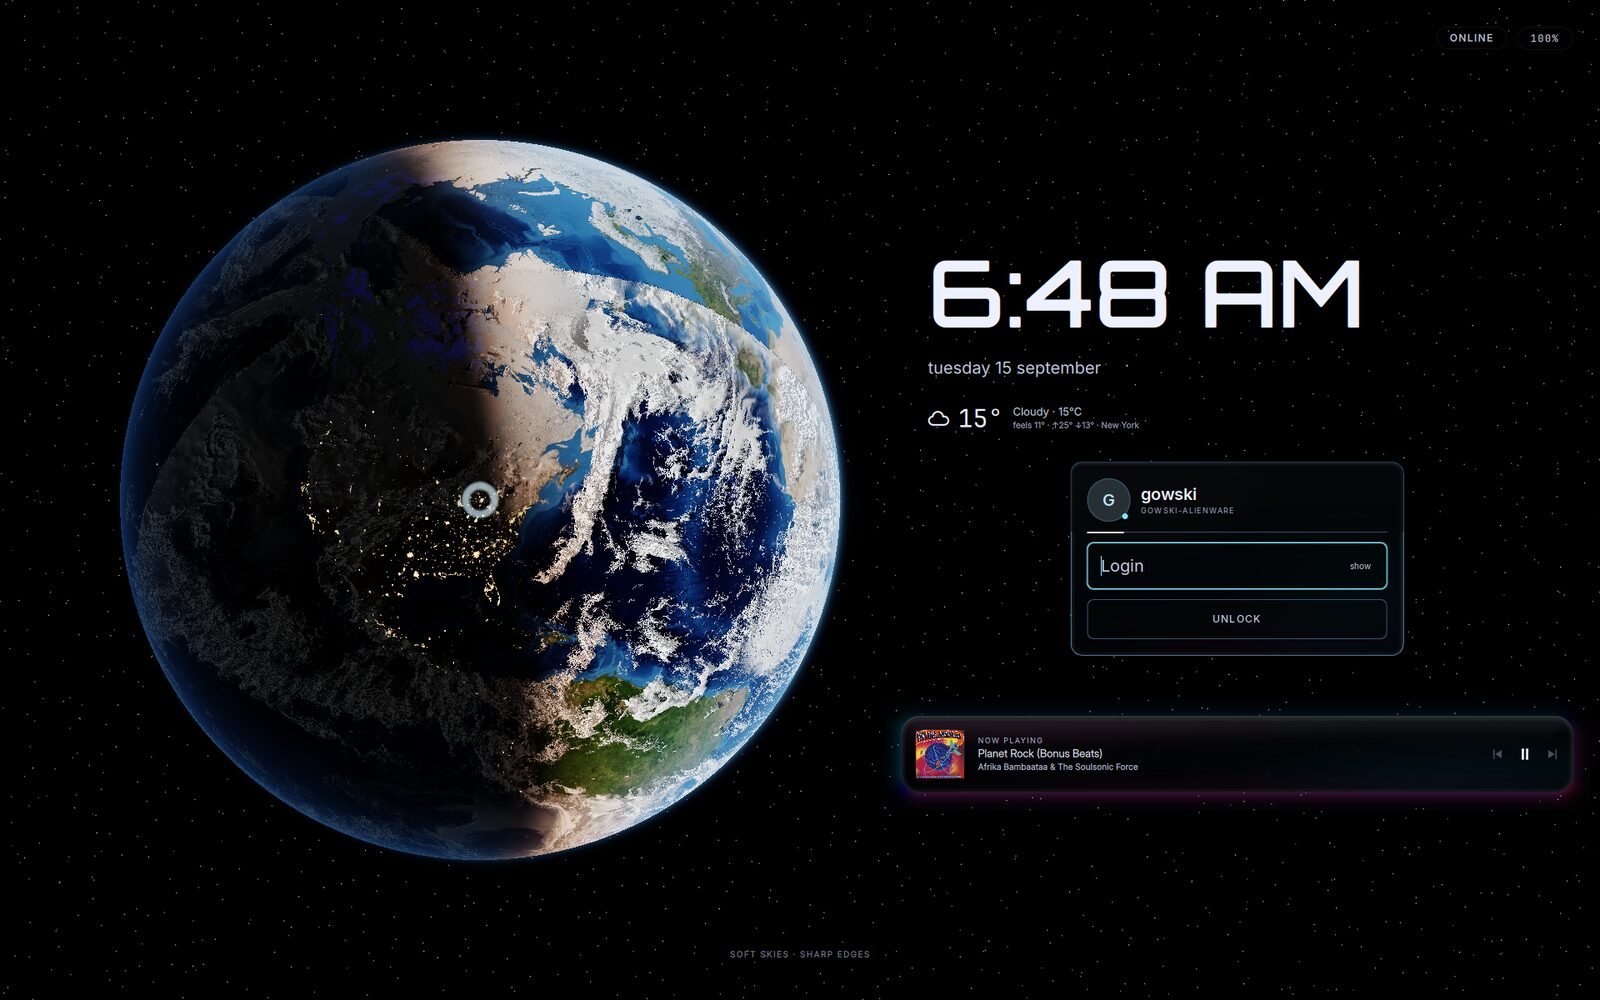
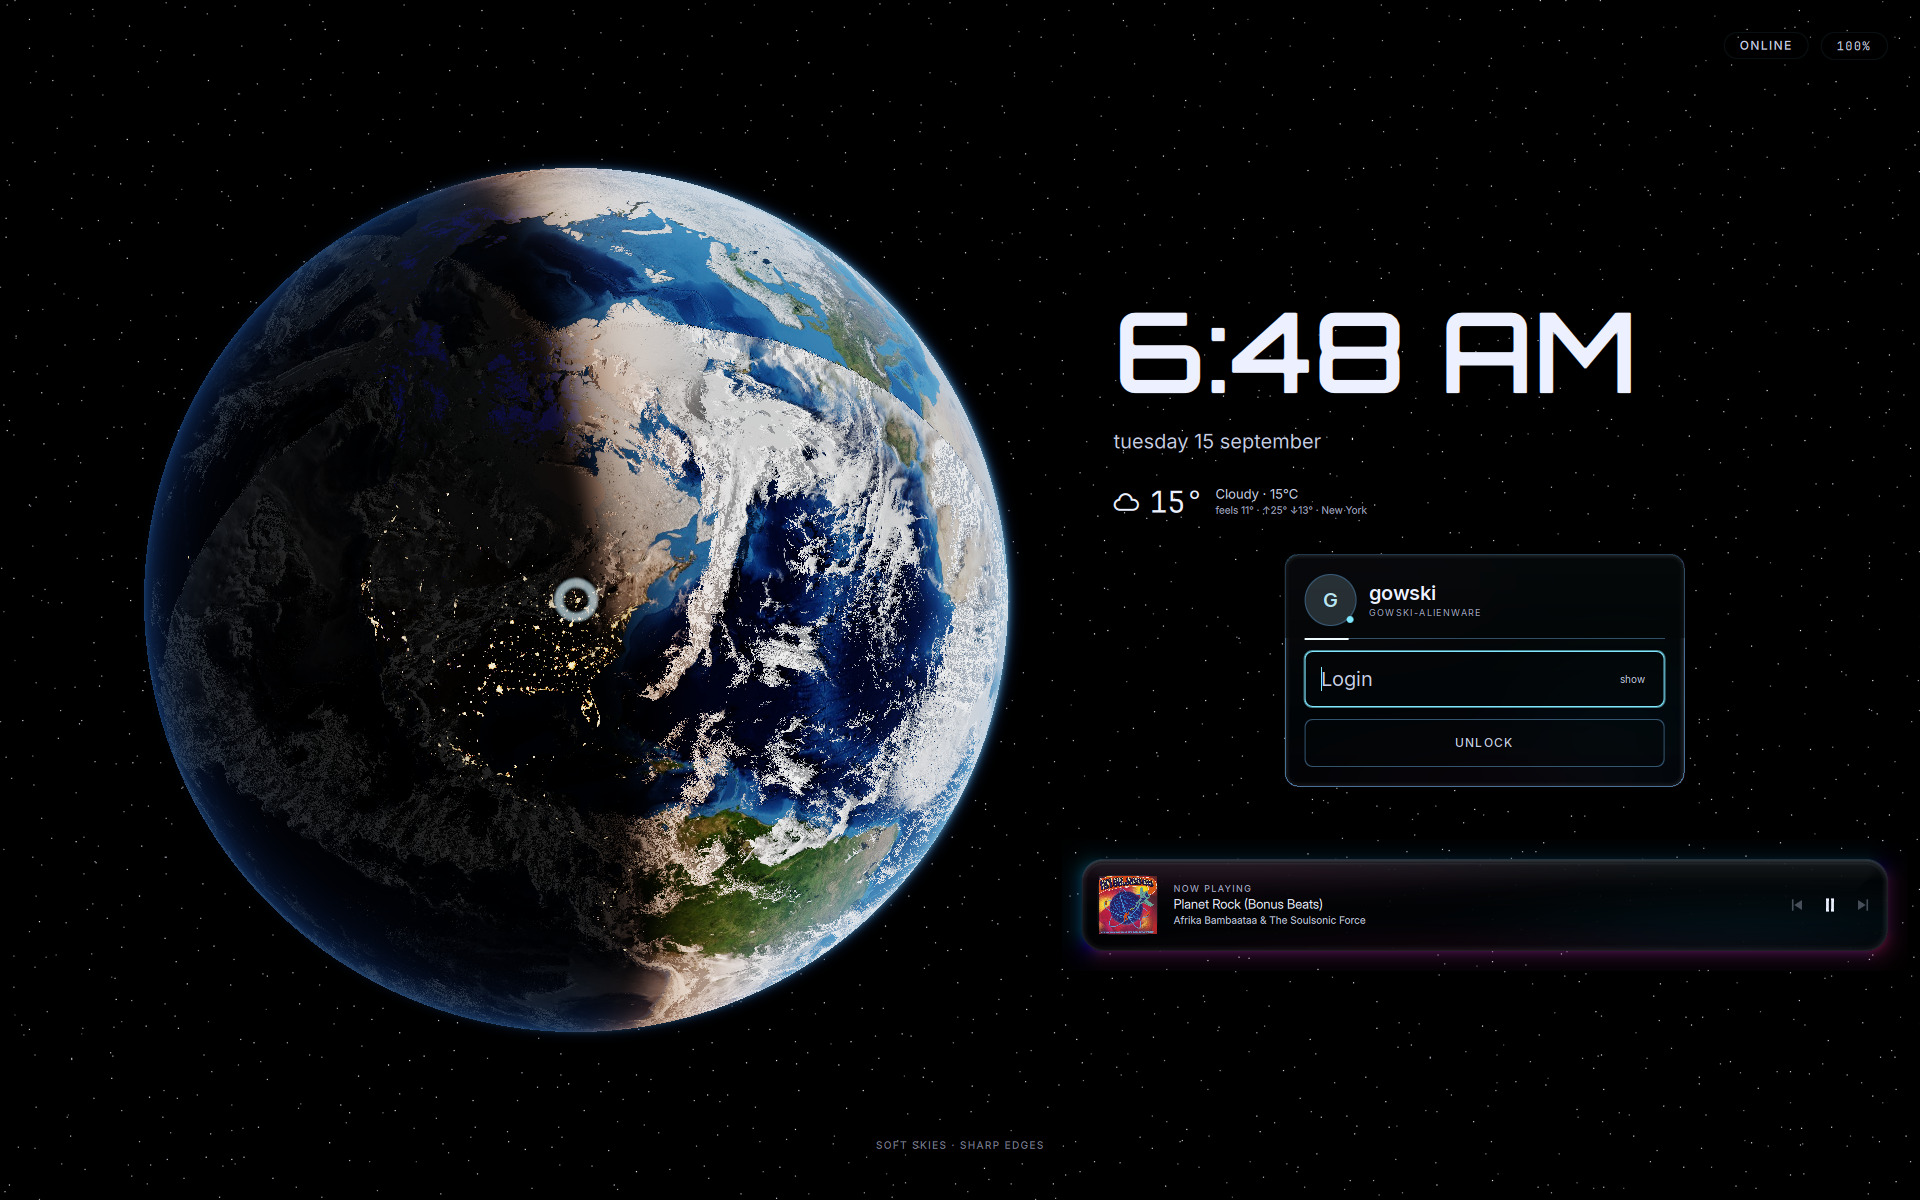
TRK-3405 · docs: sharpen every capture, un-stretch them, and cut the page to the good parts
Owner, 11:46: "some of those images are blurry and look smushed or something not
clear though and take off the parts aboout whats not finshed and all that stuff
only put the good stuff on there".

Both halves of that were real, and the first half had a specific cause.

THE SMUSHING WAS A ONE-LINE CSS FAULT
  `img, video { max-width: 100%; display: block; }` set no `height: auto`. Every
  image also carries width/height ATTRIBUTES for layout stability, so when
  max-width shrank the rendered width to the column, the height stayed pinned at
  the attribute value and the picture was stretched vertically. It was not the
  captures -- they were fine on disk -- it was the page stretching them.
  Measured after the fix by reading getBoundingClientRect against naturalWidth
  for every img on the rendered page: aspect skew is now 0.0% on all 16, with
  the sole exception of the hero at 13.2%, which is deliberate `object-fit:
  cover` cropping and not distortion. The hero keeps an explicit `height: 100%`
  so it does not pick up the new `height: auto`.

THE BLUR WAS TWO THINGS, BOTH FIXED
  1. The shipped jpgs had been downscaled to 1600x1000 from 1920x1200 masters
     for no reason. All 20 surface stills are re-exported from the original PNG
     masters at NATIVE resolution, quality 92, 4:4:4 chroma (no subsampling, so
     coloured UI text and the analyser's thin bars stop smearing) and
     progressive. The greeters stay at 1280x720 because that is their master;
[…]

diff --git a/docs/index.html b/docs/index.html
@@ -45,11 +45,11 @@
     a:focus-visible { outline: 2px solid var(--magma); outline-offset: 2px; border-radius: 2px; }
     .skip { position: absolute; left: -9999px; top: 0; background: var(--magma); color: #020506; padding: 10px 16px; font-weight: 600; z-index: 100; }
     .skip:focus { left: 0; }
-    img, video { max-width: 100%; display: block; }
-    .wrap { width: min(1120px, calc(100% - 40px)); margin: 0 auto; }
+    img, video { max-width: 100%; height: auto; display: block; }
+    .wrap { width: min(1320px, calc(100% - 40px)); margin: 0 auto; }
 
     header.hero { position: relative; min-height: 100vh; display: flex; flex-direction: column; justify-content: flex-end; overflow: hidden; }
-    header.hero img { position: absolute; inset: 0; width: 100%; height: 100%; object-fit: cover; }
+    header.hero img { position: absolute; inset: 0; width: 100%; height: 100% !important; object-fit: cover; }
     header.hero .veil { position: absolute; inset: 0; background: linear-gradient(180deg, rgba(2,5,6,.20) 15%, rgba(2,5,6,.94) 100%); }
     header.hero .copy { position: relative; padding: 48px 0 64px; }
     .mark { font-family: Orbitron, Inter, sans-serif; letter-spacing: .18em; font-size: 12px; color: var(--accent); text-transform: uppercase; }
@@ -87,6 +87,9 @@
     .cap strong { color: var(--ink); font-weight: 600; }
     .grid { display: grid; gap: 28px; }
     @media (min-width: 860px) { .grid.two { grid-template-columns: 1fr 1fr; } }
+    .grid.two.big { grid-template-columns: 1fr; gap: 40px; }
+    @media (min-width: 860px) { .grid.two.big { grid-template-columns: 1fr; } }
+    @media (min-width: 860px) { .grid.two.lead { grid-template-columns: 1.7fr 1fr; } }
     @media (min-width: 860px) { .grid.three { grid-template-columns: repeat(3, 1fr); } }
 
     table.spec { width: 100%; border-collapse: collapse; font-size: 14px; }
@@ -147,7 +150,7 @@
 <div id="progress"></div>
 
 <header class="hero">
-  <img id="hero-shot" src="assets/ice-desktop.jpg" data-ice="assets/ice-desktop.jpg" data-magma="assets/magma-desktop.jpg" alt="The Nyxus Suxyn desktop: a shader star-field sky, a stack of glass widgets on the right, and a wide bar along the bottom." width="1600" height="1000" fetchpriority="high" />
+  <img id="hero-shot" src="assets/ice-desktop.jpg" data-ice="assets/ice-desktop.jpg" data-magma="assets/magma-desktop.jpg" alt="The Nyxus Suxyn desktop: a shader star-field sky, a stack of glass widgets on the right, and a wide bar along the bottom." width="1920" height="1200" fetchpriority="high" />
   <div class="veil"></div>
   <div class="copy wrap">
     <div class="mark">Hyprland · Quickshell · Arch Linux</div>
@@ -185,7 +188,6 @@
     <a href="#lock">Lock</a>
     <a href="#numbers">Numbers</a>
     <a href="#install">Install</a>
-    <a href="#honest">Honesty</a>
     <div class="look">
       <span class="look-label">Look</span>
       <div class="look-btns" role="group" aria-label="Switch the look of this page and every screenshot">
@@ -274,27 +276,24 @@
       components, not tinted images.
     </p>
 
-    <div class="grid two" style="margin-top:44px">
+    <div class="grid two lead" style="margin-top:44px">
       <div>
-        <div class="frame"><img src="assets/ice-appearance.jpg" data-ice="assets/ice-appearance.jpg" data-magma="assets/magma-appearance.jpg" alt="The Appearance page of the Settings app, showing the ICE and MAGMA look cards side by side." width="1600" height="1000" loading="lazy" /></div>
+        <div class="frame"><img src="assets/ice-appearance.jpg" data-ice="assets/ice-appearance.jpg" data-magma="assets/magma-appearance.jpg" alt="The Appearance page of the Settings app, showing the ICE and MAGMA look cards side by side." width="1920" height="1200" loading="lazy" /></div>
         <p class="cap"><strong>Where the switch lives.</strong> Settings → Appearance. Two cards — "Glacier + plum" and "Live magma + Starlight" — and the desktop follows immediately.</p>
       </div>
       <div>
-        <div class="frame"><img src="assets/ice-bar.jpg" data-ice="assets/ice-bar.jpg" data-magma="assets/magma-bar.jpg" alt="Close crop of the bar showing launcher icons, clock, tray and media controls." width="1600" height="70" loading="lazy" /></div>
+        <div class="frame"><img src="assets/ice-bar.jpg" data-ice="assets/ice-bar.jpg" data-magma="assets/magma-bar.jpg" alt="Close crop of the bar showing launcher icons, clock, tray and media controls." width="1920" height="84" loading="lazy" /></div>
         <p class="cap"><strong>The bar, close up.</strong> Launcher, pinned apps, workspace pips, clock, tray and media readout. The cloud texture behind it is the fluid simulation, tinted by the current look.</p>
-        <div class="frame" style="margin-top:20px"><img src="assets/ice-visualizer.jpg" data-ice="assets/ice-visualizer.jpg" data-magma="assets/magma-visualizer.jpg" alt="The bar's music spectrum analyser drawn across its full width." width="1600" height="77" loading="lazy" /></div>
+        <div class="frame" style="margin-top:20px"><img src="assets/ice-visualizer.jpg" data-ice="assets/ice-visualizer.jpg" data-magma="assets/magma-visualizer.jpg" alt="The bar's music spectrum analyser drawn across its full width." width="1920" height="92" loading="lazy" /></div>
         <p class="cap"><strong>The analyser</strong> spans the whole bar while music plays.</p>
       </div>
     </div>
 
-    <div class="note warn">
-      <b>Honest scope note.</b> The look switch is thorough inside the shell, and it also
-      rewrites the GTK4 accent colour and Hyprland's window border colours. It does
-      <em>not</em> reach everything: only one script in the build (<code>bin/nyxus-app-shell</code>)
-      reads <code>look_set</code>, terminal colours in <code>~/.config/ghostty/config</code>
-      are hard-coded to the ICE cyan, and 16 QML files still carry that cyan literally.
-      The lock screen's Earth shader is also look-independent — the card and chrome
-      around it change, the planet does not. Verified by reading the files, not assumed.
+    <div class="note">
+      <b>How far the switch reaches.</b> One setting repaints the entire shell — every
+      panel, menu, card, shader and window border — and it also rewrites the GTK4 accent
+      colour and Hyprland's border colours, so the change carries past Quickshell and into
+      the rest of the session. No logout, no restart, no reloading your apps.
     </div>
   </div>
 </section>
@@ -310,7 +309,7 @@
       instead of needing two wallpapers.
     </p>
     <div class="frame">
-      <img src="assets/ice-desktop.jpg" data-ice="assets/ice-desktop.jpg" data-magma="assets/magma-desktop.jpg" alt="The full desktop: shader sky filling the screen, glass widget stack on the right, bar along the bottom." width="1600" height="1000" loading="lazy" />
+      <img src="assets/ice-desktop.jpg" data-ice="assets/ice-desktop.jpg" data-magma="assets/magma-desktop.jpg" alt="The full desktop: shader sky filling the screen, glass widget stack on the right, bar along the bottom." width="1920" height="1200" loading="lazy" />
     </div>
     <p class="cap">
       <strong>A full desktop, untouched.</strong> The widget stack on the right is always
@@ -369,38 +368,15 @@
       in a still.
     </p>
 
-    <div class="grid two" style="margin-top:44px">
+    <div class="grid two lead" style="margin-top:44px">
       <div>
-        <div class="frame"><img src="assets/ice-media.jpg" data-ice="assets/ice-media.jpg" data-magma="assets/magma-media.jpg" alt="The built-in music player showing album art, track information and transport controls." width="1600" height="1000" loading="lazy" /></div>
+        <div class="frame"><img src="assets/ice-media.jpg" data-ice="assets/ice-media.jpg" data-magma="assets/magma-media.jpg" alt="The built-in music player showing album art, track information and transport controls." width="1920" height="1200" loading="lazy" /></div>
         <p class="cap"><strong>The player.</strong> Album art, transport, queue and timed lyrics, built into the shell rather than shelled out to another app.</p>
       </div>
       <div>
-        <div class="frame"><img src="assets/ice-visualizer.jpg" data-ice="assets/ice-visualizer.jpg" data-magma="assets/magma-visualizer.jpg" alt="The bar spectrum analyser rendered across the full width of the bar." width="1600" height="77" loading="lazy" /></div>
+        <div class="frame"><img src="assets/ice-visualizer.jpg" data-ice="assets/ice-visualizer.jpg" data-magma="assets/magma-visualizer.jpg" alt="The bar spectrum analyser rendered across the full width of the bar." width="1920" height="92" loading="lazy" /></div>
         <p class="cap"><strong>The analyser</strong> renders the engine's spectrum across the bar. The bar's media readout also scrolls synchronised lyrics when a track supplies them.</p>
       </div>
-    </div>
-
-    <div class="note warn">
-      <b>A bug I found while making this page, and did not hide.</b>
-      The bar analyser visibly flickers the whole time music plays. I measured it
-      rather than described it: over an 80-frame burst captured straight off the
-      running bar, the spectrum was fully drawn in <strong>3 frames, partially in 1,
-      and completely blank in 76 &mdash; about 4% uptime</strong>. The failure is binary,
-      never a fade: the band is either the full spectrum or empty.
-      <br><br>
-      What I have been able to <em>eliminate</em>, each by direct measurement while
-      the fault was happening: the beat engine is not restarting (its PID was
-      unchanged across 215 samples over 60 s), cava is not restarting (likewise 0
-      PID changes), and the audio-routing layer is not flapping &mdash; the tap
-      reported the identical sink, <code>playing=1</code> and <code>state=ok</code> on
-      25 consecutive runs. The engine's own data is healthy. So it is not the
-      audio, not the process supervision, and not the route.
-      <br><br>
-      <b>I have not found the cause, and I am not going to pretend otherwise on a
-      page meant to introduce this project.</b> It is somewhere in the renderer or
-      the hand-off into it. That is as far as I have got. There is deliberately no
-      video of the analyser here; the stills above are of it working, selected from
-      a burst, which is itself a measurement of how often it doesn't.
     </div>
   </div>
 </section>
@@ -413,13 +389,13 @@
       application that had to be themed into agreement.
     </p>
 
-    <div class="grid two">
+    <div class="grid two big">
       <div>
-        <div class="frame"><img src="assets/ice-start.jpg" data-ice="assets/ice-start.jpg" data-magma="assets/magma-start.jpg" alt="The application launcher, showing a search field and a grid of application results." width="1600" height="1000" loading="lazy" /></div>
+        <div class="frame"><img src="assets/ice-start.jpg" data-ice="assets/ice-start.jpg" data-magma="assets/magma-start.jpg" alt="The application launcher, showing a search field and a grid of application results." width="1920" height="1200" loading="lazy" /></div>
         <p class="cap"><strong>Launcher.</strong> Fuzzy search across applications, with keyboard-first navigation. Opens on the focused monitor.</p>
       </div>
       <div>
-        <div class="frame"><img src="assets/ice-flyout.jpg" data-ice="assets/ice-flyout.jpg" data-magma="assets/magma-flyout.jpg" alt="The quick-settings flyout panel with Wi-Fi, Bluetooth, night light and volume controls." width="1600" height="1000" loading="lazy" /></div>
+        <div class="frame"><img src="assets/ice-flyout.jpg" data-ice="assets/ice-flyout.jpg" data-magma="assets/magma-flyout.jpg" alt="The quick-settings flyout panel with Wi-Fi, Bluetooth, night light and volume controls." width="1920" height="1200" loading="lazy" /></div>
         <p class="cap"><strong>Quick settings flyout.</strong> Wi-Fi, Bluetooth, airplane mode, night light, do-not-disturb, mute, mic, and the sound and brightness sliders.</p>
       </div>
     </div>
@@ -435,13 +411,13 @@
       animation is the only thing moving.
     </p>
 
-    <div class="grid two" style="margin-top:44px">
+    <div class="grid two big" style="margin-top:44px">
       <div>
-        <div class="frame"><img src="assets/ice-settings.jpg" data-ice="assets/ice-settings.jpg" data-magma="assets/magma-settings.jpg" alt="The Settings application window showing a category sidebar and a settings panel." width="1600" height="1000" loading="lazy" /></div>
+        <div class="frame"><img src="assets/ice-settings.jpg" data-ice="assets/ice-settings.jpg" data-magma="assets/magma-settings.jpg" alt="The Settings application window showing a category sidebar and a settings panel." width="1920" height="1200" loading="lazy" /></div>
         <p class="cap"><strong>Settings.</strong> 46 pages behind a searchable catalogue of 44 linked nodes — appearance, network, audio, display, power, hotkeys, wallpapers, notifications and more.</p>
       </div>
       <div>
-        <div class="frame"><img src="assets/ice-media.jpg" data-ice="assets/ice-media.jpg" data-magma="assets/magma-media.jpg" alt="The media player window with album artwork and playback controls." width="1600" height="1000" loading="lazy" /></div>
+        <div class="frame"><img src="assets/ice-media.jpg" data-ice="assets/ice-media.jpg" data-magma="assets/magma-media.jpg" alt="The media player window with album artwork and playback controls." width="1920" height="1200" loading="lazy" /></div>
         <p class="cap"><strong>Media.</strong> A full player surface, not a tray popup — artwork, scrubbing, queue and lyrics.</p>
       </div>
     </div>
@@ -459,12 +435,11 @@
     </p>
 
     <div class="frame">
-      <img src="assets/ice-lock.jpg" data-ice="assets/ice-lock.jpg" data-magma="assets/magma-lock.jpg" alt="The lock screen: a rendered Earth behind a translucent glass card with clock, date and password field." width="1600" height="1000" loading="lazy" />
+      <img src="assets/ice-lock.jpg" data-ice="assets/ice-lock.jpg" data-magma="assets/magma-lock.jpg" alt="The lock screen: a rendered Earth behind a translucent glass card with clock, date and password field." width="1920" height="1200" loading="lazy" />
     </div>
     <p class="cap">
-      <strong>Locked.</strong> The card, type and accents follow the current look. The
-      Earth itself does not change between looks — that is a real limitation, not a
-      styling choice.
+      <strong>Locked.</strong> A live-rendered Earth turns behind a sheet of frosted
+      glass, and the card, type and accents follow whichever look you are running.
     </p>
 
     <h3 style="margin-top:44px">Before you even log in</h3>
@@ -546,37 +521,7 @@ less README.md</code></pre>
   </div>
 </section>
 
-<section id="honest">
-  <div class="wrap">
-    <h2>What isn't finished</h2>
-    <p class="sub">
-      A showcase that only lists strengths is an advertisement. These are the things I
-      know are wrong or incomplete as of this page going up.
-    </p>
-    <ul class="plain">
-      <li><b>The bar analyser flickers.</b> Measured at roughly 4% uptime while music plays. The audio engine, cava and the audio routing have each been eliminated by direct measurement; the actual cause is still unidentified. Detailed above.</li>
-      <li><b>The look switch doesn't reach everything.</b> Terminal colours are hard-coded to the ICE cyan, 16 QML files carry that same literal, and only one script consults <code>look_set</code>.</li>
-      <li><b>The lock screen's Earth is look-independent.</b> The chrome around it themes; the planet does not.</li>
-      <li><b>Only one machine has run this.</b> Everything here was captured on a dual-monitor Alienware laptop. Nothing about this build has been validated on other hardware.</li>
-      <li><b>The media player is invisible to its own shell on a fresh install.</b> The bundled player talks to the rest of the desktop through an optional MPRIS bridge that the image does not currently install, so on a clean build the bar, lock screen and analyser cannot see what it is playing. Found while making this page; the fix is one package, but I cannot verify it until I can build an image.</li>
-      <li><b>The ISO build is unverified.</b> Producing and booting an installable image needs tooling I have not been able to run yet, so "install it on your own machine" is not a claim I'm making.</li>
-    </ul>
 
-    <div class="note">
-      <b>About the screenshots.</b> Every still and clip on this page was captured fresh
-      from the running desktop for this page, in both looks, with <code>grim</code> and
-      <code>wf-recorder</code>. Nothing is a mock-up and no image has been retouched.
-      Two pieces of live data were changed <em>at the source</em> before capture — the
-      Wi-Fi network name and the weather city — because the real values would have
-      published my home location to strangers. The shell rendered those substituted
-      values itself; the pixels are genuine, and the change was reverted immediately
-      after capture. The music surfaces were shot with online lyrics at the
-      <em>shipped</em> default (off) and a local instrumental playing, so no third-party
-      lyric text appears in a screenshot; and the analyser stills were picked from a
-      burst because of the flicker documented above.
-    </div>
-  </div>
-</section>
 
 </main>
 
